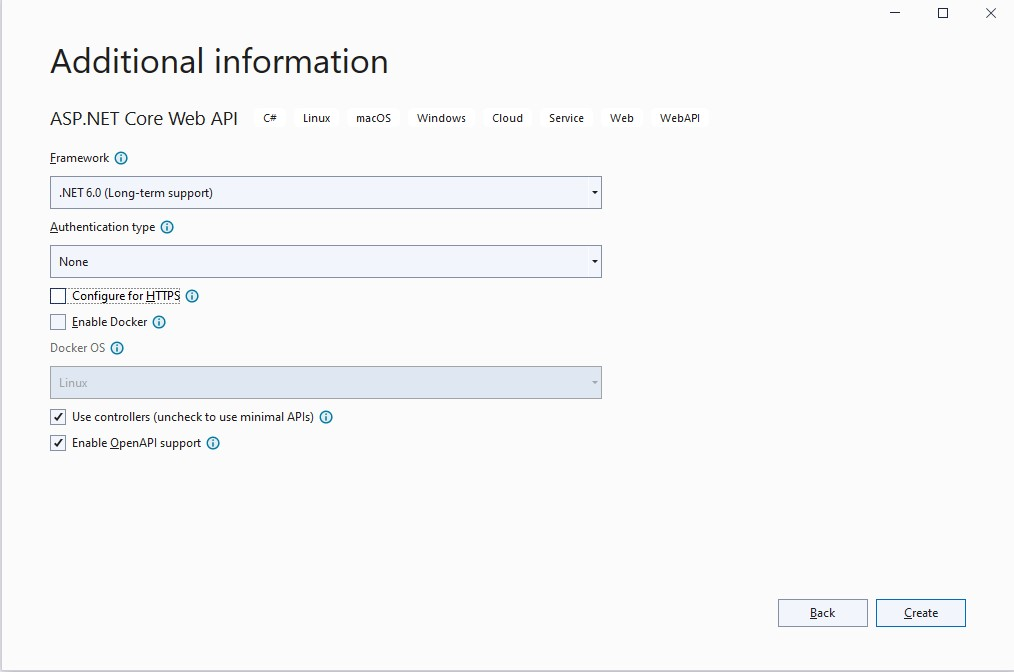
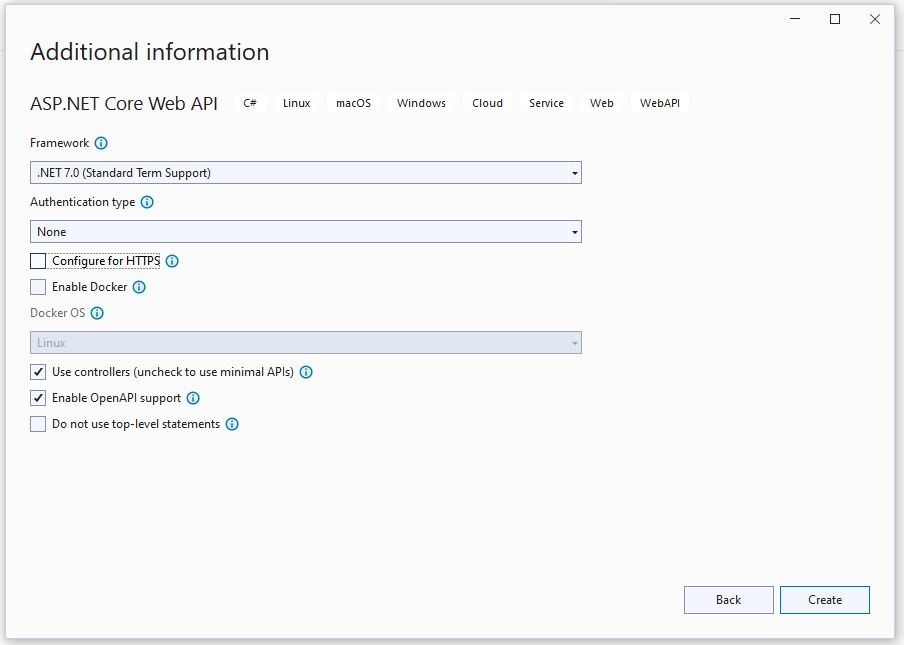
Updates

diff --git a/chapters/201-adonet.md b/chapters/201-adonet.md
@@ -3,15 +3,38 @@ Goal: Understanding how ADO.NET provides consistent access to data sources such 
 
 Required Reading: ADO.NET by building CRUD features in ASP.NET Core Application
 1. [Learn ADO.NET by building CRUD features in ASP.NET Core Application](https://www.yogihosting.com/ado-net-aspnet-core/)
-2. [Create Records using ADO.NET in ASP.NET Core Application](https://www.yogihosting.com/create-records-ado-net-aspnet-core/)
-3. [Read Records using ADO.NET in ASP.NET Core Application](https://www.yogihosting.com/read-records-ado-net-aspnet-core/)
-4. [Update Records using ADO.NET in ASP.NET Core Application](https://www.yogihosting.com/update-records-ado-net-aspnet-core/)
-5. [Delete Records using ADO.NET in ASP.NET Core Application](https://www.yogihosting.com/delete-records-ado-net-aspnet-core/)
+2. [Create Records... go to the Create method from HomeController](https://www.yogihosting.com/create-records-ado-net-aspnet-core/)
+3. [Read Records...go to the Index method from HomeController](https://www.yogihosting.com/read-records-ado-net-aspnet-core/)
+4. [Update Records ...go to the Update method from HomeController](https://www.yogihosting.com/update-records-ado-net-aspnet-core/)
+5. [Delete Records...go to the Delete method from HomeController](https://www.yogihosting.com/delete-records-ado-net-aspnet-core/)
 6. [SqlBulkCopy class of ADO.NET](https://www.yogihosting.com/sqlbulkcopy-class-of-ado-net/)
 
-Products App: 
-Create an SQL database that mirrors the model from Chapter 1 based upon the example given in the previous tutorials and adapt and test given example to connect, control & manage and perform CRUD operations on the SQL DB.
+Prerequisites:
+If you do not have an sql server installed, you will need to install a local SQL Server instance on your machine.
+Here are 2 ways to install the SQL Server :
+1. You can use the [SQL Server 2022 Developer](https://www.microsoft.com/en-us/sql-server/sql-server-downloads),
+and the [SQL Server Management Studio (SSMS)](https://learn.microsoft.com/en-us/sql/ssms/download-sql-server-management-studio-ssms?view=sql-server-ver16)
+
+2. If you prefer docker desktop you can use this approach : https://blog.devgenius.io/run-microsoft-sql-in-minutes-using-docker-desktop-4e31f5e23083
+
+Products App:
+After installing the SQL Server create an new database with a table where you can save products.
+You can create a new table by running the following script in the Sql Server Management Studio.
+
+CREATE TABLE [dbo].[products_ado](
+	[ID] [int] IDENTITY(1,1) PRIMARY KEY,
+	[Name] [nvarchar](50) NULL,
+	[Description] [nvarchar](max) NULL,
+	[Price] [decimal](18, 0) NULL,
+	[Weight] [decimal](18, 0) NULL
+) ON [PRIMARY] TEXTIMAGE_ON [PRIMARY]
+
+Next you should update the application so that products are stored in SQL database using ADO.Net
+You can update the existing products controller and service or create new ones(as you wish).
+To set the SQL connection string and table name in the service class ,use the SqlSettings with the 2 properties ConnectionString and ProductTableName loaded from the appsettings.json file, which you already created in the exercise from [1.6 Chapter](https://github.com/msg-CareerPaths/csharp-training/blob/main/chapters/103-configurations.md).
+
+Build and run the application and call all methods from and check to see if the product table is updated accordingly on the sql server.
 
 Further Reading:
-* [Compare and contrast ADO and Entity Framework](https://blog.devart.com/ado-net-vs-entity-framework.html)
-* [How to Use ADO .NET in ASP MVC .NET 6 Core application?](https://www.youtube.com/watch?v=QN4gKyCEzHA)
+* [How to Use ADO .NET in ASP MVC .NET 6 Core application](https://www.youtube.com/watch?v=QN4gKyCEzHA)
+* [ADO.NET Tutorial For Beginners and Professionals](https://dotnettutorials.net/lesson/what-is-ado-net/)

diff --git a/chapters/102-test-your-app.md b/chapters/102-test-your-app.md
@@ -6,7 +6,7 @@ Goal:
 - [How to compile and run your applicantion](https://docs.microsoft.com/en-us/visualstudio/ide/compiling-and-building-in-visual-studio?view=vs-2022)
 - [How to debug code](https://docs.microsoft.com/en-us/visualstudio/get-started/csharp/tutorial-debugger?view=vs-2022)
 
-The online shop application built in the [ previous chapter](https://github.com/msg-CareerPaths/csharp-training/blob/main/chapters/101-create-web-api-project.mdChapter) has included the [Swagger](https://swagger.io/) middleware. 
+The products application built in the [ previous chapter](https://github.com/msg-CareerPaths/csharp-training/blob/main/chapters/101-create-web-api-project.mdChapter) has included the [Swagger](https://swagger.io/) middleware. 
 
 Swagger can help you design, document your APIs at scale and will  generate a starting test page for your application. 
 This is a good starting point to do manual testing of your application.
@@ -21,13 +21,19 @@ You can view all methods from a controller :
 
 ![Data Model](https://github.com/msg-CareerPaths/csharp-training/blob/main/Sources/Chapter2/2.jpg "Data Model")
 
-Products App:  
-  - complete the solution with the relation from the diagram. 
+Products App:
+  You have a start-up sample [here](https://github.com/msg-CareerPaths/csharp-training/tree/main/Sources/Chapter1/Startup_Chapter/OnlineOrder/Startup_Chapter/OnlineOrder), that you can use to build your ASP.NET Core Web API.
+  
+  Add new properties to the Product class like (decimal Price, string Description)
+  Products and product categories  will be stored each in a list, which will be repopulated each time you start the project,
+  so there is no persistance.
+  If you want you can initiate the lists with some values on the classes contructors.
+  Update the existing product controller to cover all CRUD operation for the products.
+  Create a new class named ProductCategory with the following properties(string? Id,string Name,string description).
+  Create a new controller and service for the product categories where you will expose all CRUD methods.
+  Product category service will implement an interface called IProductCategoryService.
+  At this stage you will have 2 controllers one for products and one for product categories.
+  Don't forget to update the Program.cs and inject the new ProductCategoryService using [DI](https://learn.microsoft.com/en-us/aspnet/core/fundamentals/dependency-injection?view=aspnetcore-7.0).
+  At the end run, debug and  manual test the application with swagger.
 
-    ![Data Model](https://github.com/msg-CareerPaths/csharp-training/blob/main/diagrams/Chapter2.png "Data Model")
-    
-  - run, debug and  manual test the application with help page  
-
-(Optional) For other type of testing, you can use different tools like: 
-  - Postman (https://www.postman.com/)
-  - Curl (https://curl.se/docs/)
+ (Optional) You can use other tools like:Postman (https://www.postman.com/) or Curl (https://curl.se/docs/).

diff --git a/chapters/fundamentals-csharp.md b/chapters/fundamentals-csharp.md
@@ -1,0 +1,42 @@
+# C#.Net Fundamentals
+
+C# is a object-oriented and type-safe programming language. C# enables developers to build many types of applications that run in .NET.
+
+C# programs run on .NET framework, a virtual execution system called the common language runtime (CLR) and a set of class libraries. The CLR is the implementation by Microsoft of the common language infrastructure (CLI), an international standard.
+Here you have a list of fundamentals to read about:
+
+## [General Structure of a C# Program](https://learn.microsoft.com/en-us/dotnet/csharp/fundamentals/program-structure/)
+
+## [Declare namespaces to organize types](https://learn.microsoft.com/en-us/dotnet/csharp/fundamentals/types/namespaces)
+
+## [Keywords](https://learn.microsoft.com/en-us/dotnet/csharp/language-reference/keywords/)
+
+## [Types and variables](https://learn.microsoft.com/en-us/dotnet/csharp/tour-of-csharp/#types-and-variables)
+
+## [C# Program building blocks](https://learn.microsoft.com/en-us/dotnet/csharp/tour-of-csharp/program-building-blocks)
+
+## [C# major language areas](https://learn.microsoft.com/en-us/dotnet/csharp/tour-of-csharp/features)
+
+## Object Oriented programming
+ ### [Overview of classes, structs, and records in C#](https://learn.microsoft.com/en-us/dotnet/csharp/fundamentals/object-oriented/)
+ ### [Objects](https://learn.microsoft.com/en-us/dotnet/csharp/fundamentals/object-oriented/objects)
+ ### [Inheritance](https://learn.microsoft.com/en-us/dotnet/csharp/fundamentals/object-oriented/inheritance)
+ ### [Polimorpohism](https://learn.microsoft.com/en-us/dotnet/csharp/fundamentals/object-oriented/polymorphism)
+
+## [Exceptions and Exception Handling](https://learn.microsoft.com/en-us/dotnet/csharp/fundamentals/exceptions/)
+
+## Coding Style
+ ### [Identifier naming rules and conventions](https://learn.microsoft.com/en-us/dotnet/csharp/fundamentals/coding-style/identifier-names)
+ ### [Coding Conventions](https://learn.microsoft.com/en-us/dotnet/csharp/fundamentals/coding-style/coding-conventions)
+
+## What's new in C#
+  ## [C# 9.0](https://learn.microsoft.com/en-us/dotnet/csharp/whats-new/csharp-9)
+  ## [C# 10](https://learn.microsoft.com/en-us/dotnet/csharp/whats-new/csharp-10)
+  ## [C# 11](https://learn.microsoft.com/en-us/dotnet/csharp/whats-new/csharp-11)
+
+There are some limitations with the .NET Framework. For example, it only runs on the Windows platform. Also, you need to use different .NET APIs for different Windows devices such as Windows Desktop, Windows Store, Windows Phone, and Web applications.
+So, considering this, Microsoft created [.NET Core](https://github.com/msg-CareerPaths/csharp-training/blob/main/chapters/fundamentals-netcore.md)
+
+Further reading:
+ - [Learn C# Programming](https://www.tutorialsteacher.com/csharp)
+ - [Microsoft Free courses, tutorials, videos](https://dotnet.microsoft.com/en-us/learn/csharp)

diff --git a/chapters/202-entity-framework.md b/chapters/202-entity-framework.md
@@ -1,12 +1,25 @@
 ## 2.2. Entity Framework
 Goal: Understanding how and why Entity Framework can be used to automate all types of SQL database-related activities for an application, and how using the frameowrk developers can work at a higher level of abstraction when they deal with data and can create and maintain the data-oriented application with less code and database-related knowledege.
 
-Required Reading: [.NET 6.0 - Connect to SQL Server with Entity Framework Core](https://jasonwatmore.com/post/2022/03/18/net-6-connect-to-sql-server-with-entity-framework-core)
+Required Reading: 
+[Entity Framework Core] (https://www.entityframeworktutorial.net/efcore/entity-framework-core.aspx)
 
-Products App: 
-Automatically create/update an SQL Server database from code using EF Core migrations that mirrors the model from Chapter 1 based upon the example given in the previous tutorial and adapt given example to connect, control & manage and perform CRUD operations on the SQL DB.
+Products api:
+You should have an project which create/update an SQL Server database from code using EF Core migrations that mir
+
+[Here](https://www.youtube.com/watch?v=SryQxUeChMc) you have an example how to get started with the entity framework core.
+Update your existing project or create a new ASP NET CORE web project by adding all Models from the video guide.
+You should watch the video until minute 11:05 to create models,context and add\update migrations.
+Next step is to create a controller.
+Check [this](https://learn.microsoft.com/en-us/aspnet/core/tutorials/first-web-api?view=aspnetcore-7.0&tabs=visual-studio) article's "Scaffold a controller" paragraph.
+You will use the SqlSConnectionString property from the SqlSettings class to configure the EF sql connection in the product context.
+
+Build, run and debug the application and test it to see if records are persisted in the product table on the sql server.
 
 Further Reading:
-* [Entity Framework Core](https://www.entityframeworktutorial.net/efcore/entity-framework-core.aspx)
+* [Entity Framework Core](https://learn.microsoft.com/en-us/ef/core/)
 * [CRUD with a .NET 6 Web API & Entity Framework Core](https://www.youtube.com/watch?v=Fbf_ua2t6v4)
-* [NET 6 Web API with Entity Framework Core and SQL Server](https://www.youtube.com/watch?v=rzPFEuKlPhM)
+* [Compare and contrast ADO and Entity Framework](https://blog.devart.com/ado-net-vs-entity-framework.html)
+* [Getting Started with Entity Framework Core](https://www.youtube.com/watch?v=SryQxUeChMc)
+* [Working with an existing Database](https://www.youtube.com/watch?v=DCYVfLT5_QI)
+* [Other Database Providers : SQLite , PostGresSQL , AzureCosmoDB](https://www.youtube.com/watch?v=moRmKo3nrN4)

diff --git a/chapters/000-prerequisites.md b/chapters/000-prerequisites.md
@@ -5,7 +5,7 @@ Goal: Getting familiar with the ecosystem around c#. You can skip this chapter i
 Required Reading:
 
  - [Git Basics](https://git-scm.com/book/en/v1/Getting-Started-Git-Basics)  (skip this if you are already familiar with git commands)
- - [Install Visual Studio Community 2022 ](https://visualstudio.microsoft.com/vs/community/)   - __recommended__
+ - [Install Visual Studio Community 2022](https://visualstudio.microsoft.com/vs/community/)   - __recommended__
  - [Install .NET 7 SDK](https://dotnet.microsoft.com/en-us/download/dotnet/7.0)
    this part may be optional as when installing the latest Visual Studio Community 2022 you should get the latest .net 7.
  - [Install Visual Code](https://code.visualstudio.com/)  - As stated previously,Visual Studio Community 2022 is recommended, as most of the examples and help links are using visual studio as integrated development environment (IDE).
@@ -17,13 +17,10 @@ Required Reading:
  - [Build .NET applications with C#](https://docs.microsoft.com/en-us/learn/paths/build-dotnet-applications-csharp/?WT.mc_id=dotnet-35129-website)
  - [SOLID Principles in C#](https://www.c-sharpcorner.com/UploadFile/damubetha/solid-principles-in-C-Sharp/)
 
-Products App: *nothing to do*.
+Exercise: *nothing to do*.
 
 Further Resources:
 
  - [GitHub - Hello World](https://guides.github.com/activities/hello-world/)
  - [Git - CLI Fundamentals](https://www.youtube.com/watch?v=HVsySz-h9r4)
  - [Nuget in 5 minutes](https://Nuget.apache.org/guides/getting-started/Nuget-in-five-minutes.html)
- 
-## The APP
-During the course, we will create an app that will create,update and delete products. Each chapter will cover different aspects of the C# language. The final application will be a backend .net core rest api application.

diff --git a/chapters/100-exercises.md b/chapters/100-exercises.md
@@ -1,0 +1,26 @@
+## 6. Exercises
+
+Goal: You should make exercises at the end of each chapter or subchapter where there is an Exercise indication.
+You should have enought articles and links in each chapter to implement each exercise.
+
+Advise: Group the logic into service classes which implement interfaces and expose service logic through controllers.
+Use the swagger helper page of the projects to test the API.
+
+At the end, ideally, you should have a solution with 2 projects.
+One project will be a web api rest api, which will expose more controllers, for example:
+ProductInMemoryController - operations for saving products in memory.
+ProductCategoriesInMemoryController - operations for saving products categories in memory.
+ProductFileController - operations to save products in files.
+ProductADOSqlController -  operations for the products to be saved in  a Sql Database using ADO.Net
+ProductsEFController - operations for the products to be saved in  a Sql Database using Entity Framework core.
+ProductCategoryMongoController - operations for the product categories which will be stored in MongoDb.
+
+A test project where you will have a couple of unit tests.
+
+???????!!!!!!!??????????
+
+  > Register an account on GitHub and accept the training [GitHub Classroom Assignment](https://classroom.github.com/a/qiaU7uWM). This will create a new GitHub repository for you. Clone this repository locally and checkout the `develop` branch. During the course of the training, you will commit and push your work on this branch.
+ > to "Visual Studio" and generate a new project ASP.NET Core Web API:
+ > 
+ > Go- Project name: `productsapp`,
+ > - Solution: `ro.msg.learning_yourName`,

diff --git a/README.md b/README.md
@@ -2,11 +2,12 @@
 
 ## Contents
 
-- [Fundamentals](https://github.com/msg-CareerPaths/csharp-training/blob/main/chapters/fundamentals.md)
+- [C#.Net Fundamentals](https://github.com/msg-CareerPaths/csharp-training/blob/main/chapters/fundamentals-csharp.md)
+- [ASP.NET Core Fundamentals](https://github.com/msg-CareerPaths/csharp-training/blob/main/chapters/fundamentals-netcore.md)
 - [Working Mode](https://github.com/msg-CareerPaths/csharp-training/blob/main/chapters/workingmode.md)
 - [Environment](https://github.com/msg-CareerPaths/csharp-training/blob/main/chapters/environment.md)
 - [Time Bookings](???)
-- [Online Shop](https://github.com/msg-CareerPaths/csharp-training/blob/main/chapters/onlineshop.md)
+- [Product app](https://github.com/msg-CareerPaths/csharp-training/blob/main/chapters/app.md)
 - Chapters
   * [0. Prerequisites](https://github.com/msg-CareerPaths/csharp-training/blob/main/chapters/000-prerequisites.md)
   * [1. WEB API]()
@@ -26,7 +27,6 @@
     * [3.3. Using Razor vs. Blazor](https://github.com/msg-CareerPaths/csharp-training/blob/main/chapters/303-using-razor-vs-blazor.md)
   * [4. Security](https://github.com/msg-CareerPaths/csharp-training/blob/main/chapters/400-security.md)
   * [5. Unit tests](https://github.com/msg-CareerPaths/csharp-training/blob/main/chapters/500-unit-tests.md)
-  * [6. Exercises](https://github.com/msg-CareerPaths/csharp-training/blob/main/chapters/600-exercises.md)
 - [OPT-1. ODBC](#opt-1-odbc)
 - [OPT-2. MongoDB](#opt-2-mongodb)
 - [OPT-3. OAuth](#opt-3-oauth)

diff --git a/chapters/200-database-access.md b/chapters/200-database-access.md
@@ -20,7 +20,10 @@ __Why databases?__
 
 Required reading: [File System vs. Database](https://dzone.com/articles/which-is-better-saving-files-in-database-or-in-fil)
 
-Products App: 
-Ask yourself the following questions: what happens if you want to update a numeric quantity into a very large products/orders data file that stores online shop information? What happens if during the time spent with reading/searching a large file, other simultaneous requests come for writing or modifying or deleting the same quantities or entries and what happens if during that exact time there is a power shortage? Can databases address some of these problems?
+Ask yourself the following questions: 
+What happens if you want to update a numeric quantity into a very large products/orders data file that stores an online shop information? 
+What happens if during the time spent with reading/searching a large file, other simultaneous requests come for writing or modifying or deleting the same quantities or entries and what happens if during that exact time there is a power shortage? 
+Can databases address some of these problems?
 
-Further reading: [Why use a database instead of saving data to disk?](https://arstechnica.com/information-technology/2013/05/why-use-a-database-instead-of-just-saving-your-data-to-disk/)
+Further reading: 
+[Why to use a database instead of saving data to disk?](https://arstechnica.com/information-technology/2013/05/why-use-a-database-instead-of-just-saving-your-data-to-disk/)

diff --git a/chapters/104-logging.md b/chapters/104-logging.md
@@ -11,13 +11,15 @@ Required Reading:
    - [Nlog Configuration file](https://github.com/NLog/NLog/wiki/Configuration-file)
    - [Nlog ASP.NET Core 6 Example](https://github.com/NLog/NLog.Web/tree/master/examples/ASP.NET%20Core%206)
 
-Products App: 
+Exercise:
+   Add a new nlog.config file to the application.
    Log some actions like : Product get/create/edit/delete as will greatly assist in the support and debug of your application.
    It is your decision how you structure and what information goes into those logs to be as comprehensive as possible.
    You can play a bit and add some other logging where you think it whould be more usefull.
-   Change the log files to be saved in  " logs/${shortdate} " , change the format(layout) of the log files, and rerun the application to check the new folder/file formats.
+   Update the nlog.config file so log files to be saved in " logs/${shortdate} " , change the format(layout) of the log files, and rerun the application to check the new folder/file formats.
 
 Future Reading:
  - [Logging Best Practices](https://raygun.com/blog/c-sharp-logging-best-practices/)
  - [How to use structured logging](https://github.com/nlog/nlog/wiki/How-to-use-structured-logging)
  - [Use NLog configuration with appsettings.json](https://github.com/NLog/NLog.Extensions.Logging/wiki/NLog-configuration-with-appsettings.json)
+ - 

diff --git a/chapters/203-nonrelationaldb-mongodb.md b/chapters/203-nonrelationaldb-mongodb.md
@@ -5,7 +5,12 @@ Required Reading:
 * [Create a web API with ASP.NET Core and MongoDB](https://docs.microsoft.com/en-us/aspnet/core/tutorials/first-mongo-app?view=aspnetcore-6.0&tabs=visual-studio)
 
 Products App: 
-Create a MongoDB NoSQL database that mirrors the model from Chapter 1(WEB API) based upon the example given in the previous tutorial and adapt and test given example to connect, control & manage and perform CRUD operations on the DB.
+After installing the MongoDB ,create a database called productsdb and a collection named categories that saves the product categories in mongodb.
+The MongoDB connections details,database name and collection name will be loaded from a new setting from the appsettings.json.
+(You've allready made an similar exercise in [1.3 Chapter](https://github.com/msg-CareerPaths/csharp-training/blob/main/chapters/103-configurations.md).
+In the project add a new service,controller and interface that will be use to make CRUD operations on the mongo DB.
+Build, run,debug  and test the application.
+Check to see if operations made from the MongoDBController are persisted in the products collection from the mongodb.
 
 Further Reading:
 * [Install MongoDB Community Edition on Windows](https://www.mongodb.com/docs/manual/tutorial/install-mongodb-on-windows/)

diff --git a/chapters/106-configuration.md b/chapters/106-configuration.md
@@ -17,9 +17,7 @@ Goal:
 
 Required Reading: 
 - [Configuration in ASP.NET Core](https://learn.microsoft.com/en-us/aspnet/core/fundamentals/configuration/?view=aspnetcore-7.0)
-- [Options pattern in ASP.NET Core](https://learn.microsoft.com/en-us/aspnet/core/fundamentals/configuration/options?view=aspnetcore-7.0)
 
-Products App:
-- Update the appsettings.json file and add a new section called ApplicationSettings which will contain the UseFileStoring boolean property.
-- Go to folder and add a new class called ApplicationSettings which will have a boolean property called UseFileStoring.
-- Update the Program.cs so that ApplicationSettings.UseFileStoring is loaded and from appsettings.json.
+Products Web API:
+- Update the appsettings.json file and add a new section called SqlSettings with 2 properties ConnectionString and ProductTableName which will be used in the next practices to connect to an sql server.
+- On Program.cs create a local SqlSettings variable where you will load the SqlSettings ConnectionString and ProductTableName the appsettings.json file.(https://learn.microsoft.com/en-us/aspnet/core/fundamentals/configuration/options?view=aspnetcore-7.0).

diff --git a/chapters/fundamentals-netcore.md b/chapters/fundamentals-netcore.md
@@ -1,0 +1,10 @@
+## ASP.NET Core fundamentals
+
+NET Core is a new version of .NET Framework, which is a free, open-source, general-purpose development platform maintained by Microsoft. It is a cross-platform framework that runs on Windows, macOS, and Linux operating systems.
+
+[Here](https://learn.microsoft.com/en-us/dotnet/csharp/language-reference/configure-language-version) you can check the c# language version related to the each .net framework.
+
+ - [ASP.NET Core fundamentals overview](https://learn.microsoft.com/en-us/aspnet/core/fundamentals/?view=aspnetcore-7.0&tabs=linux)
+ - [App startup in ASP.NET Core](https://learn.microsoft.com/en-us/aspnet/core/fundamentals/startup?view=aspnetcore-7.0)
+ - [Dependency injection](https://learn.microsoft.com/en-us/aspnet/core/fundamentals/dependency-injection?view=aspnetcore-7.0)
+ - [Check the ASP.NET Core Best Practices](https://learn.microsoft.com/en-us/aspnet/core/fundamentals/best-practices?view=aspnetcore-7.0)
